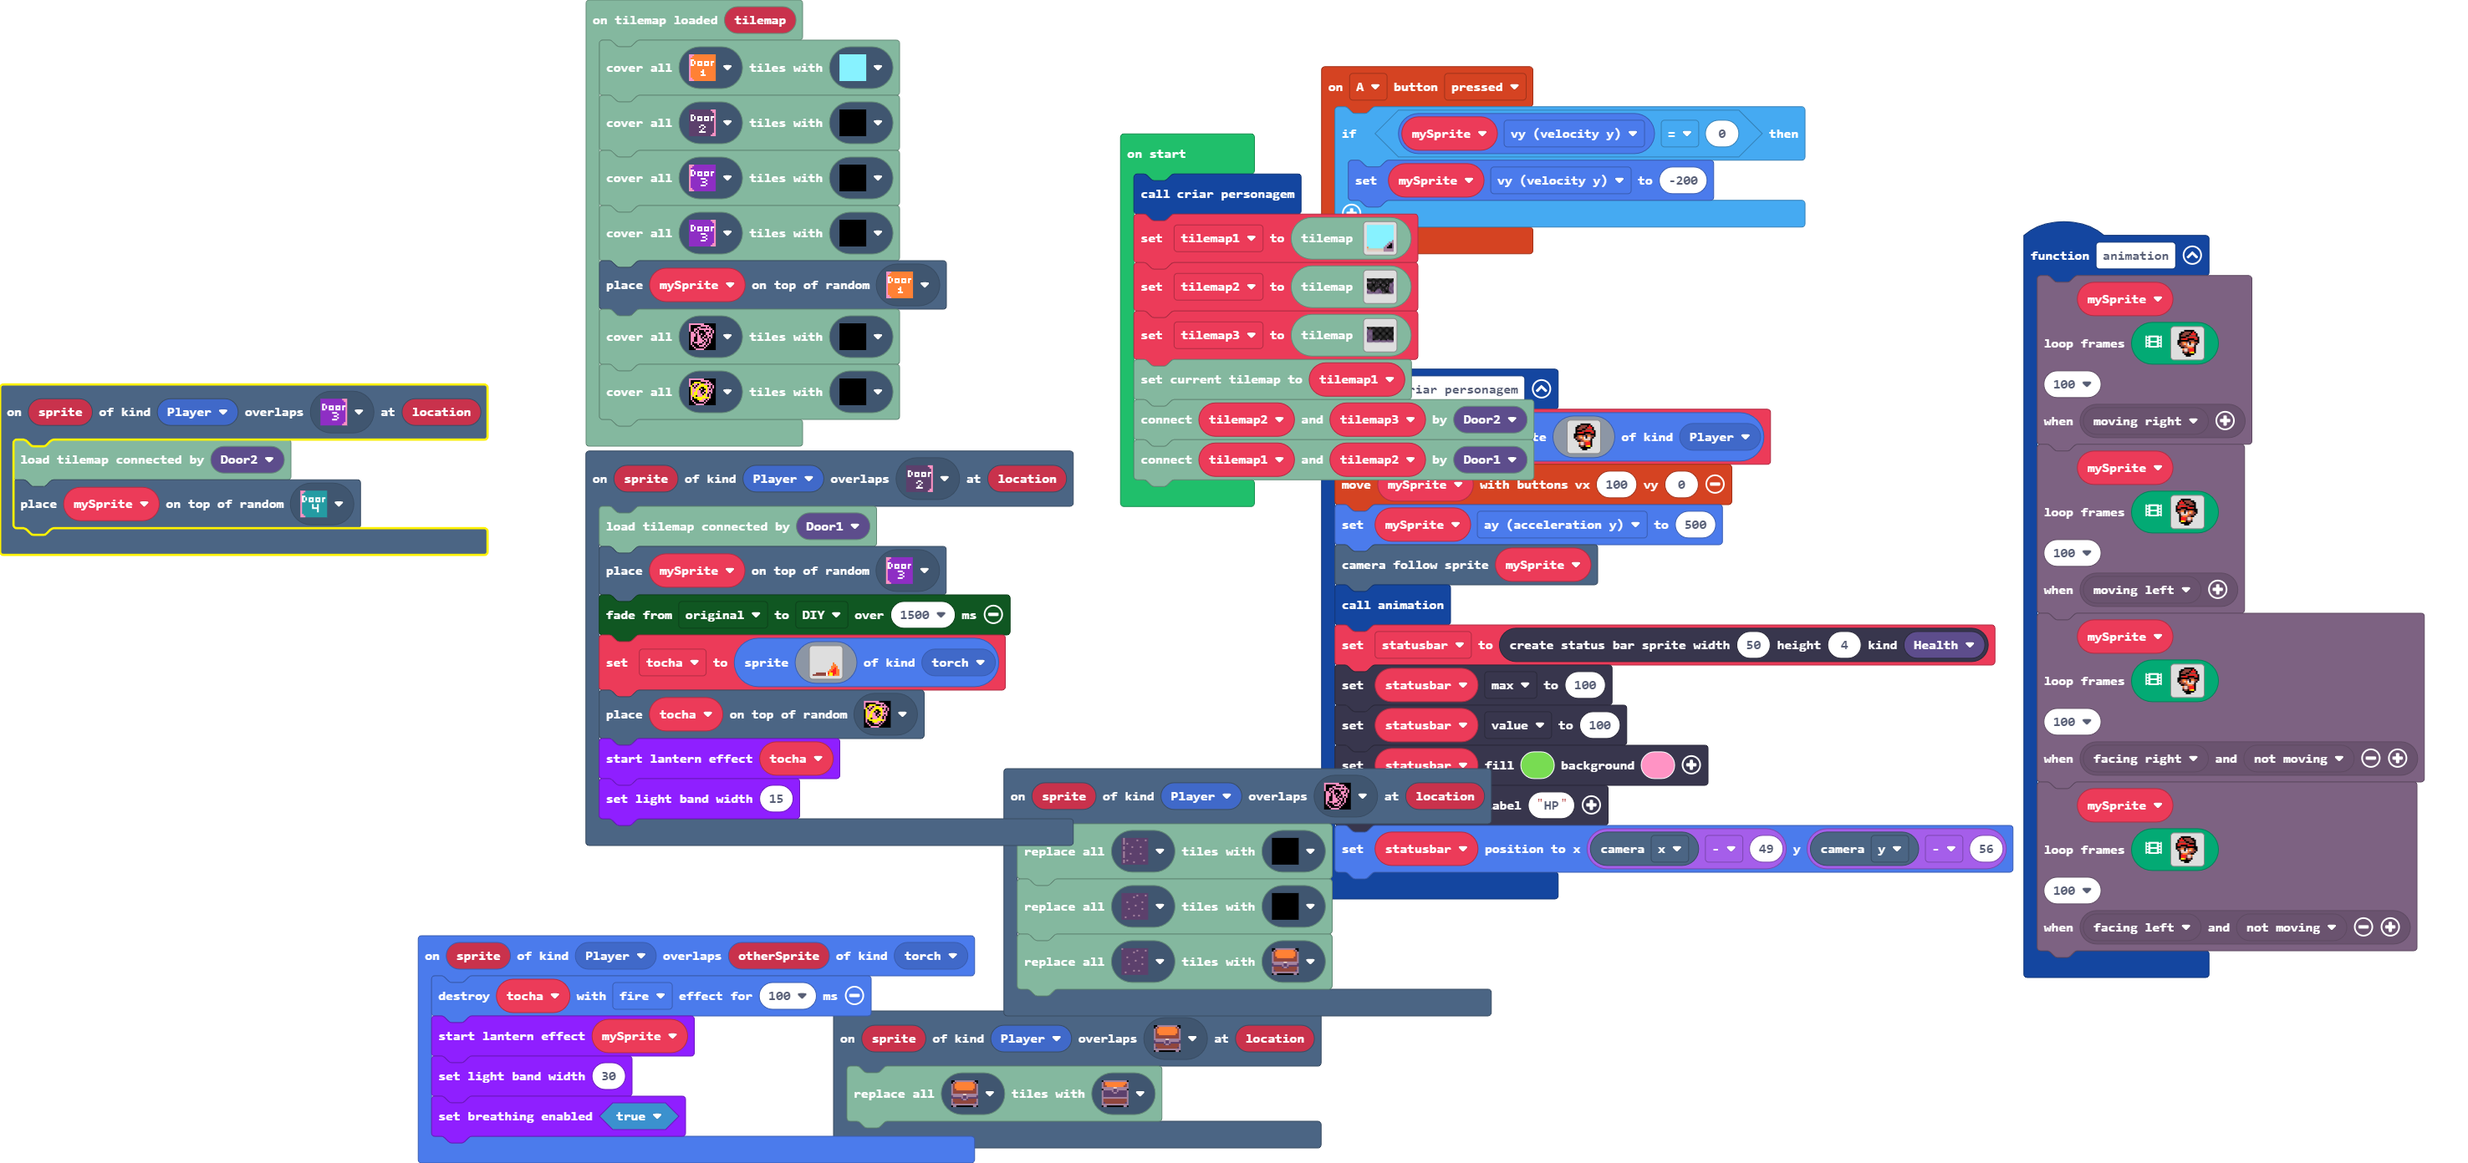
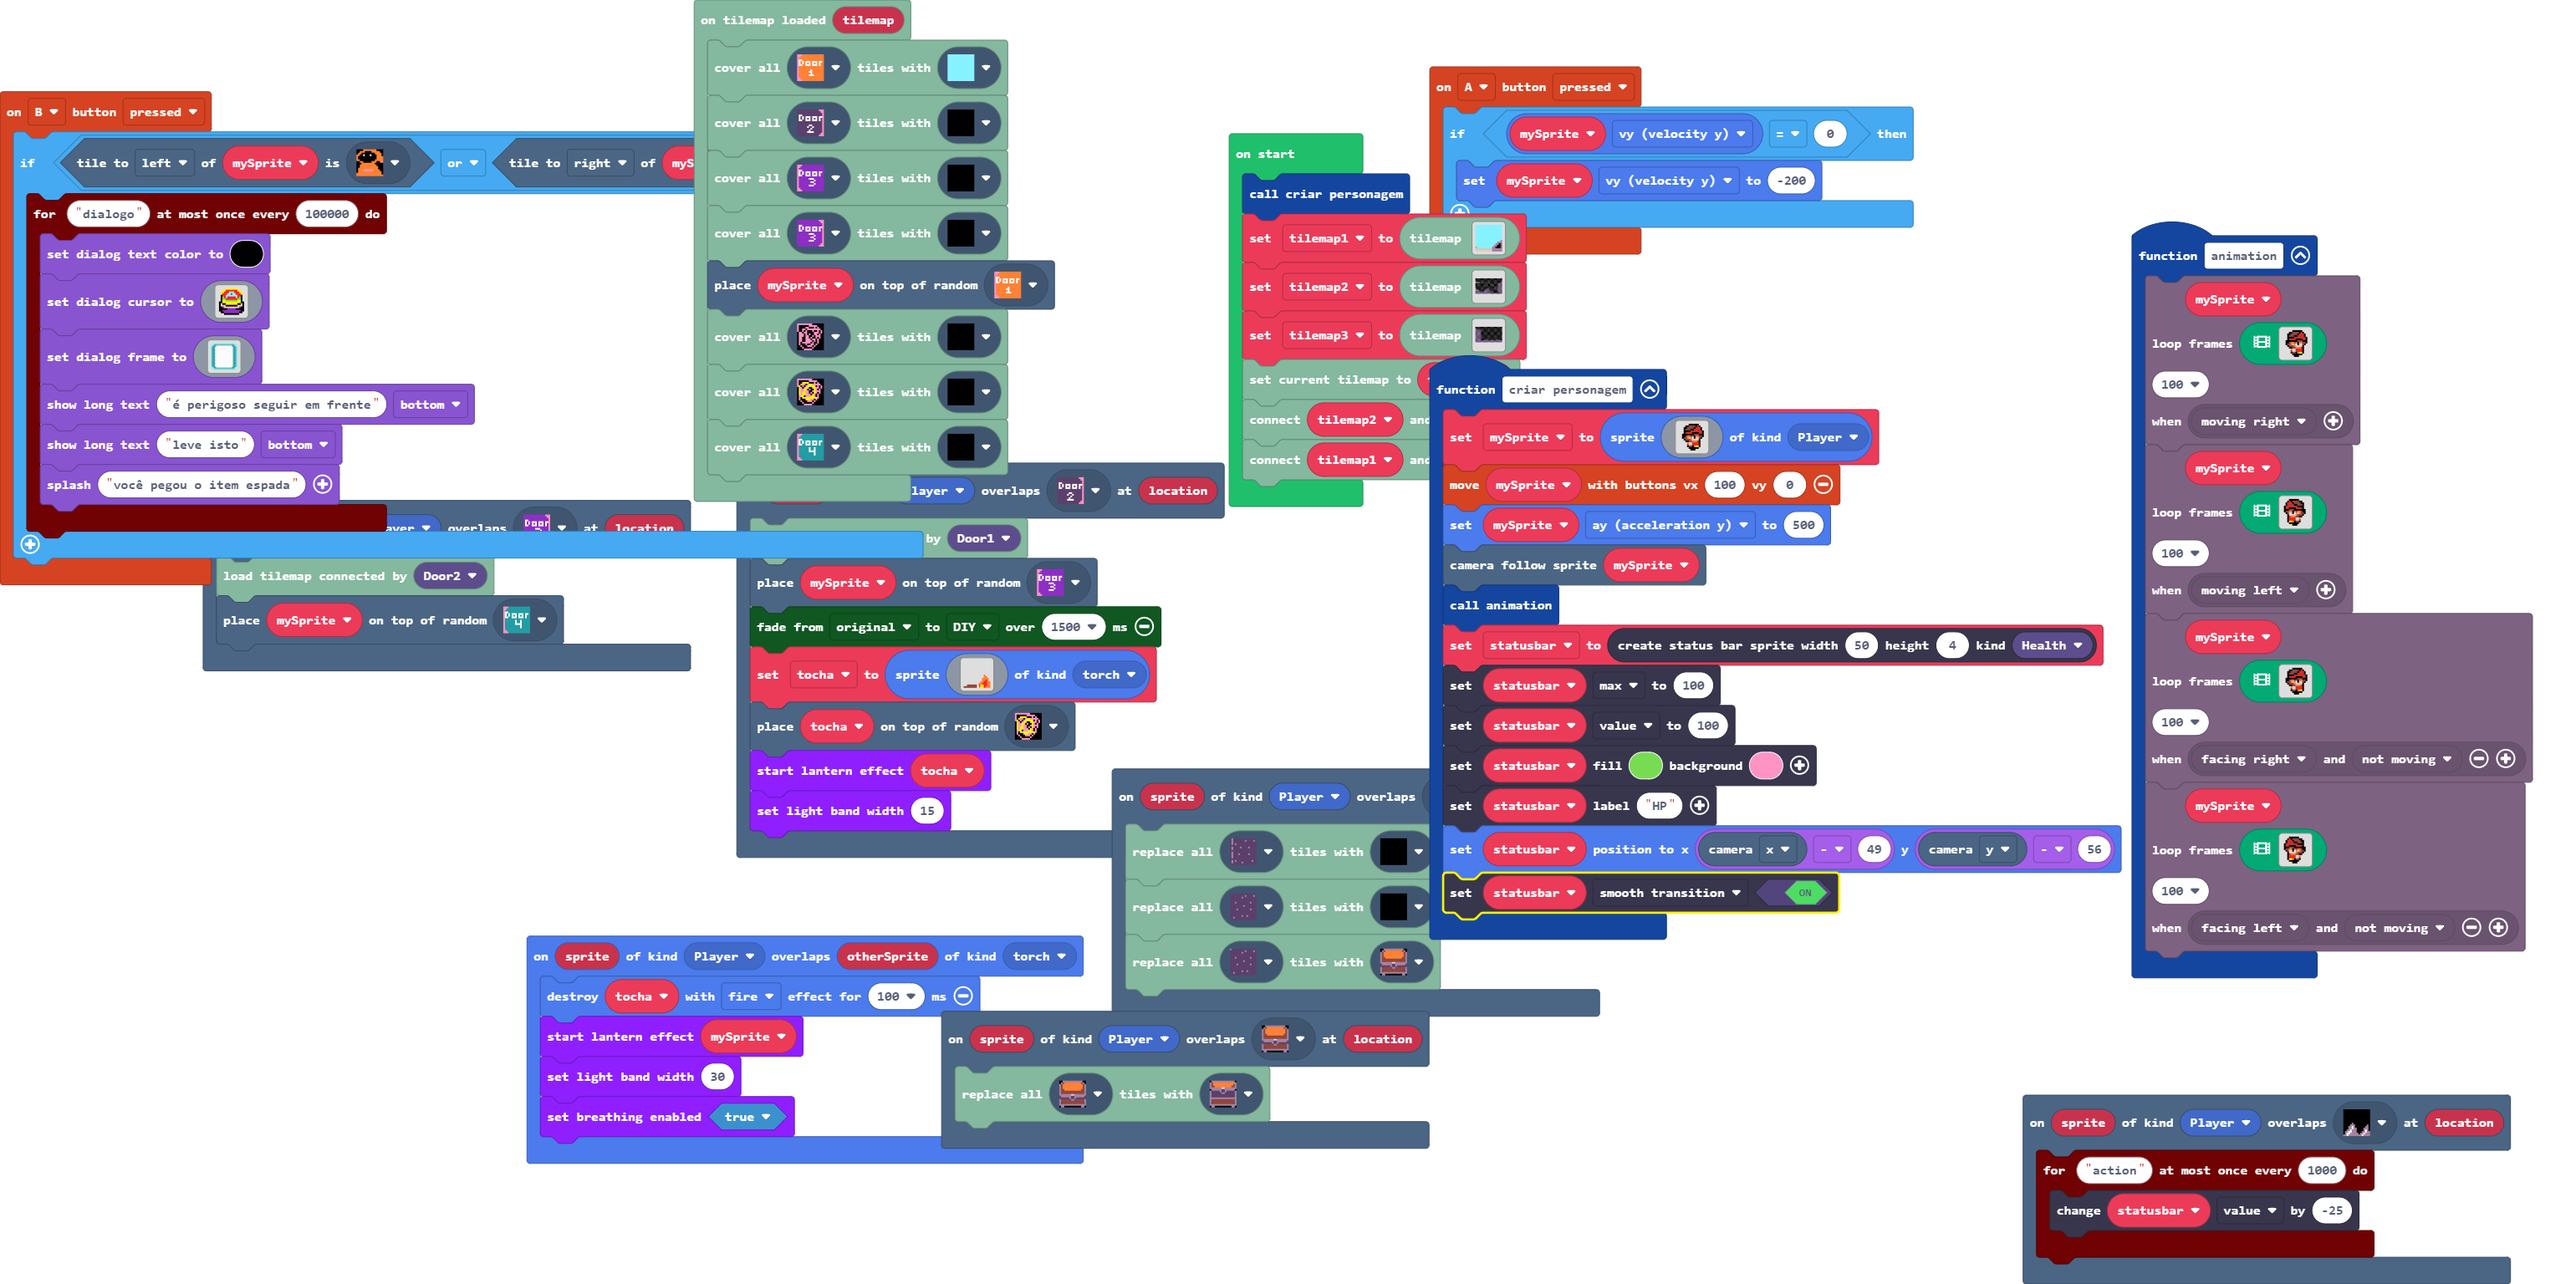
Update main.blocks, main.ts, tilemap.g.jres, tilemap.g.ts

diff --git a/tilemap.g.ts b/tilemap.g.ts
@@ -126,25 +126,6 @@ namespace myTiles {
 . . . . . . . . . . . . . . . . 
 . . . . . . . . . . . . . . . . 
 `, [myTiles.transparency16], TileScale.Sixteen);
-            case "level7":
[1 lines of base64/hex data omitted]
-............................
-............................
-............................
-............................
-............................
-............................
-............................
-............................
-............................
-............................
-............................
-............................
-............................
-............................
-............................
-............................
-`, [myTiles.transparency16,myTiles.tile2,sprites.dungeon.darkGroundNorth,sprites.dungeon.darkGroundEast,sprites.dungeon.darkGroundSouthWest1,sprites.dungeon.darkGroundSouthEast1,sprites.dungeon.darkGroundNorthEast0,sprites.dungeon.darkGroundCenter,sprites.dungeon.darkGroundNorthWest0,tiles.util.door14,myTiles.tile12], TileScale.Sixteen);
             case "level6":
[1 lines of base64/hex data omitted]
 ............................
@@ -164,6 +145,25 @@ namespace myTiles {
 2222222222222222.2.......222
 2222222222222222..........22
 `, [myTiles.transparency16,myTiles.tile1,sprites.dungeon.darkGroundNorthEast0,sprites.dungeon.darkGroundEast,sprites.dungeon.darkGroundWest,sprites.dungeon.darkGroundSouthWest0,sprites.dungeon.darkGroundNorth,sprites.dungeon.darkGroundSouthWest1,sprites.dungeon.darkGroundSouthEast1,sprites.dungeon.darkGroundNorthWest0,myTiles.tile4,myTiles.tile5,sprites.dungeon.darkGroundCenter,sprites.dungeon.darkGroundNorthEast1,tiles.util.door12,myTiles.tile6,myTiles.tile8,myTiles.tile7,myTiles.tile2,myTiles.tile9,tiles.util.door9,myTiles.tile13], TileScale.Sixteen);
+            case "level7":
[1 lines of base64/hex data omitted]
+............................
+............................
+............................
+222222......................
+222222......................
+222222......................
+222222......................
+222222......................
+222222......................
+222222......................
+222222......................
+222222......................
+222222......................
+222222......22.......22.....
+2222222222222222222222222222
+2222222222222222222222222222
+`, [myTiles.transparency16,myTiles.tile2,sprites.dungeon.darkGroundNorth,sprites.dungeon.darkGroundEast,sprites.dungeon.darkGroundSouthWest1,sprites.dungeon.darkGroundSouthEast1,sprites.dungeon.darkGroundNorthEast0,sprites.dungeon.darkGroundCenter,sprites.dungeon.darkGroundNorthWest0,tiles.util.door14,myTiles.tile12], TileScale.Sixteen);
         }
         return null;
     })

diff --git a/main.ts b/main.ts
@@ -238,6 +238,60 @@ function animation2 () {
     characterAnimations.rule(Predicate.FacingLeft, Predicate.NotMoving)
     )
 }
+controller.B.onEvent(ControllerButtonEvent.Pressed, function () {
+    if (mySprite.tileKindAt(TileDirection.Left, assets.tile`myTile10`) || mySprite.tileKindAt(TileDirection.Right, assets.tile`myTile10`)) {
+        timer.throttle("dialogo", 100000, function () {
+            game.setDialogTextColor(15)
+            game.setDialogCursor(img`
+                . . . . 5 5 5 5 5 5 5 . . . . 
+                . . 5 5 2 2 2 2 2 2 2 5 5 . . 
+                . 5 5 2 2 2 9 9 9 2 2 2 5 5 . 
+                . 5 2 2 2 9 9 2 9 9 2 2 2 5 . 
+                . f 2 2 9 9 9 9 9 9 9 2 2 f . 
+                . f 7 2 9 2 2 2 2 2 9 2 7 f . 
+                . f 7 7 2 2 2 2 2 2 2 7 7 f . 
+                . f 5 5 7 7 7 7 7 7 7 5 5 f . 
+                f f 5 5 5 5 5 5 5 5 5 5 5 f f 
+                f d f f 5 5 5 5 5 5 5 f f d f 
+                f d d d f f f f f f f d d d f 
+                f f a d d d d d d d d d a f f 
+                f f f f f a a a a a f f f f f 
+                f f a a a a a a a a a a a f f 
+                . f f a a a a a a a a a f f . 
+                . . . f f f f f f f f f . . . 
+                `)
+            game.setDialogFrame(img`
+                ..99999999999999999999..
+                .9966666666666666666699.
+                996661111111111111166699
+                966611111111111111116669
+                966611111111111111116669
+                966611111111111111116669
+                966611111111111111116669
+                966611111111111111116669
+                966611111111111111116669
+                966611111111111111116669
+                966611111111111111116669
+                966611111111111111116669
+                966611111111111111116669
+                966611111111111111116669
+                966611111111111111116669
+                966611111111111111116669
+                966611111111111111116669
+                966611111111111111116669
+                966611111111111111116669
+                966611111111111111116669
+                966611111111111111116669
+                996661111111111111166699
+                .9966666666666666666699.
+                ..99999999999999999999..
+                `)
+            game.showLongText("é perigoso seguir em frente", DialogLayout.Bottom)
+            game.showLongText("leve isto", DialogLayout.Bottom)
+            game.splash("você pegou o item espada")
+        })
+    }
+})
 controller.A.onEvent(ControllerButtonEvent.Pressed, function () {
     if (mySprite.vy == 0) {
         mySprite.vy = -200
@@ -251,6 +305,7 @@ tiles.onMapLoaded(function (tilemap4) {
     tiles.placeOnRandomTile(mySprite, tiles.util.door4)
     tiles.coverAllTiles(assets.tile`myTile6`, assets.tile`myTile0`)
     tiles.coverAllTiles(assets.tile`myTile11`, assets.tile`myTile0`)
+    tiles.coverAllTiles(tiles.util.door14, assets.tile`myTile0`)
 })
 scene.onOverlapTile(SpriteKind.Player, tiles.util.door9, function (sprite, location) {
     tiles.loadConnectedMap(ConnectionKind.Door2)
@@ -264,6 +319,11 @@ sprites.onOverlap(SpriteKind.Player, SpriteKind.torch, function (sprite, otherSp
     lantern.startLanternEffect(mySprite)
     lantern.setLightBandWidth(30)
     lantern.setBreathingEnabled(true)
+})
+scene.onOverlapTile(SpriteKind.Player, assets.tile`myTile2`, function (sprite, location) {
+    timer.throttle("action", 1000, function () {
+        statusbar.value += -25
+    })
 })
 function criar_personagem () {
     mySprite = sprites.create(img`
@@ -294,6 +354,7 @@ function criar_personagem () {
     statusbar.setColor(7, 3)
     statusbar.setLabel("HP")
     statusbar.setPosition(scene.cameraProperty(CameraProperty.X) - 49, scene.cameraProperty(CameraProperty.Y) - 56)
+    statusbar.setStatusBarFlag(StatusBarFlag.SmoothTransition, true)
 }
 scene.onOverlapTile(SpriteKind.Player, tiles.util.door3, function (sprite, location) {
     tiles.loadConnectedMap(ConnectionKind.Door1)
